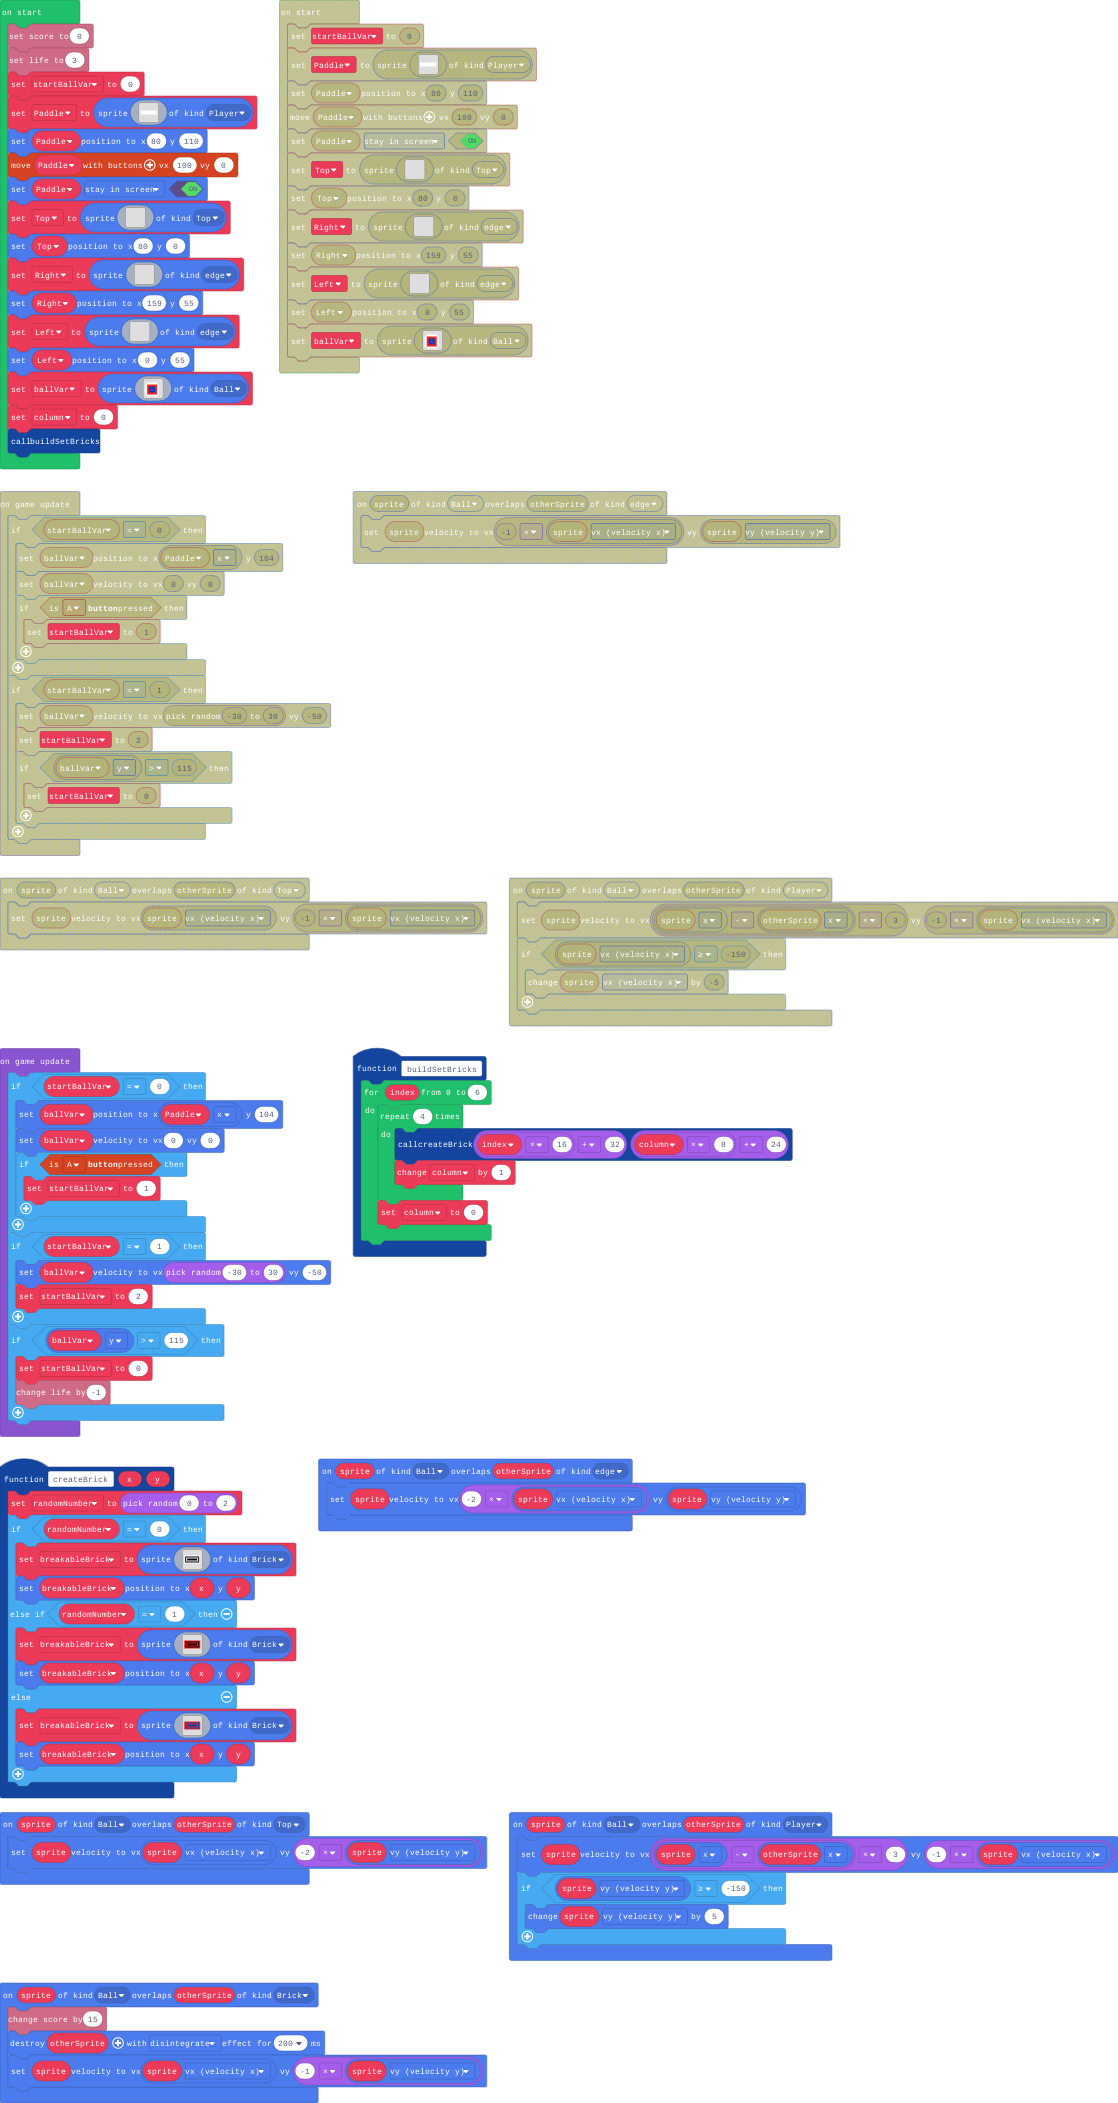
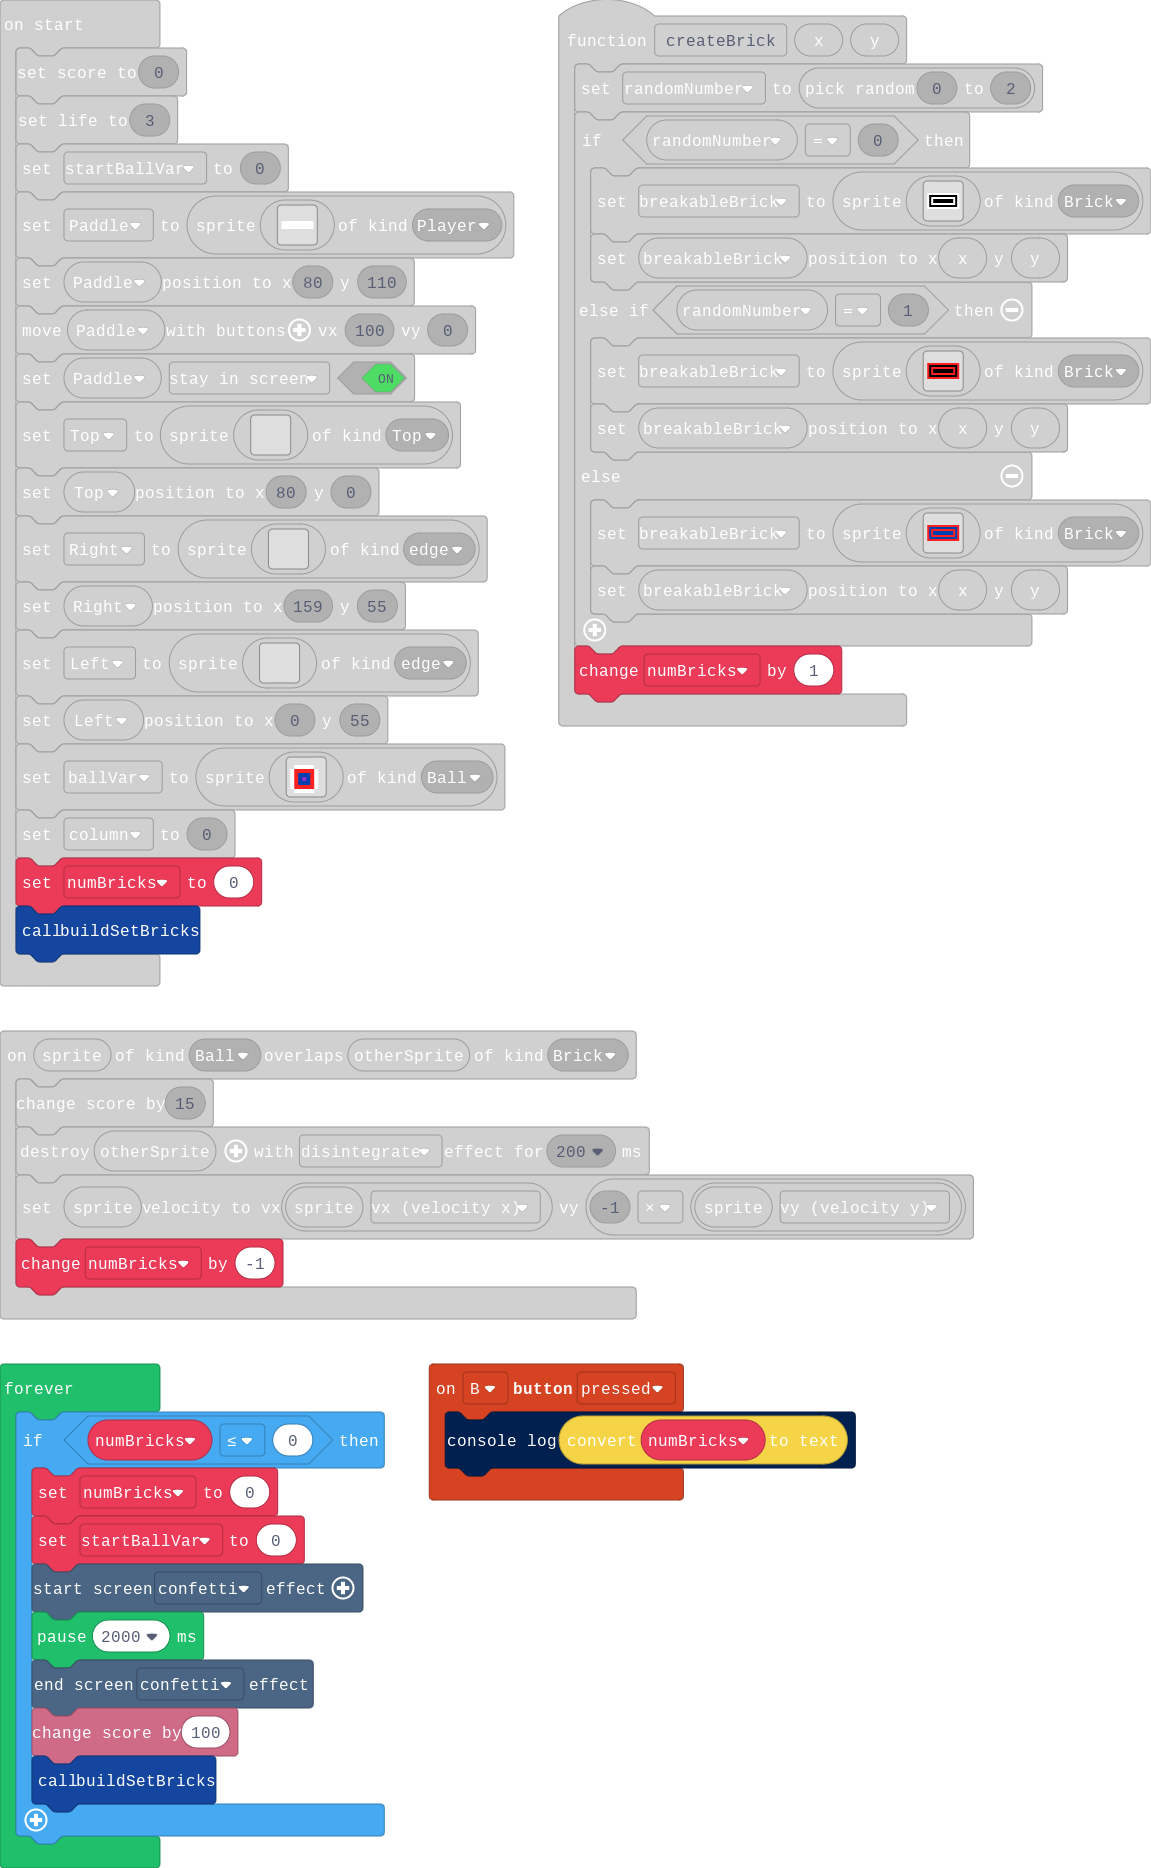
Update main.blocks, main.ts

diff --git a/main.ts b/main.ts
@@ -8,6 +8,7 @@ sprites.onOverlap(SpriteKind.Ball, SpriteKind.Brick, function (sprite, otherSpri
     info.changeScoreBy(15)
     otherSprite.destroy(effects.disintegrate, 200)
     sprite.setVelocity(sprite.vx, -1 * sprite.vy)
+    numBricks += -1
 })
 sprites.onOverlap(SpriteKind.Ball, SpriteKind.Player, function (sprite, otherSprite) {
     sprite.setVelocity((sprite.x - otherSprite.x) * 3, -1 * sprite.vx)
@@ -17,6 +18,12 @@ sprites.onOverlap(SpriteKind.Ball, SpriteKind.Player, function (sprite, otherSpr
 })
 sprites.onOverlap(SpriteKind.Ball, SpriteKind.edge, function (sprite, otherSprite) {
     sprite.setVelocity(-2 * sprite.vx, sprite.vy)
+})
+controller.B.onEvent(ControllerButtonEvent.Pressed, function () {
+    console.log(convertToText(numBricks))
+})
+sprites.onOverlap(SpriteKind.Ball, SpriteKind.Top, function (sprite, otherSprite) {
+    sprite.setVelocity(sprite.vx, -2 * sprite.vy)
 })
 function buildSetBricks () {
     for (let index = 0; index <= 6; index++) {
@@ -66,12 +73,11 @@ function createBrick (x: number, y: number) {
 `, SpriteKind.Brick)
         breakableBrick.setPosition(x, y)
     }
+    numBricks += 1
 }
-sprites.onOverlap(SpriteKind.Ball, SpriteKind.Top, function (sprite, otherSprite) {
-    sprite.setVelocity(sprite.vx, -2 * sprite.vy)
-})
 let breakableBrick: Sprite = null
 let randomNumber = 0
+let numBricks = 0
 let column = 0
 info.setScore(0)
 info.setLife(3)
@@ -426,6 +432,7 @@ let ballVar = sprites.create(img`
 . 1 1 1 1 1 . . 
 `, SpriteKind.Ball)
 column = 0
+numBricks = 0
 buildSetBricks()
 game.onUpdate(function () {
     if (startBallVar == 0) {
@@ -442,5 +449,16 @@ game.onUpdate(function () {
     if (ballVar.y > 115) {
         startBallVar = 0
         info.changeLifeBy(-1)
+    }
+})
+forever(function () {
+    if (numBricks <= 0) {
+        numBricks = 0
+        startBallVar = 0
+        effects.confetti.startScreenEffect()
+        pause(2000)
+        effects.confetti.endScreenEffect()
+        info.changeScoreBy(100)
+        buildSetBricks()
     }
 })
